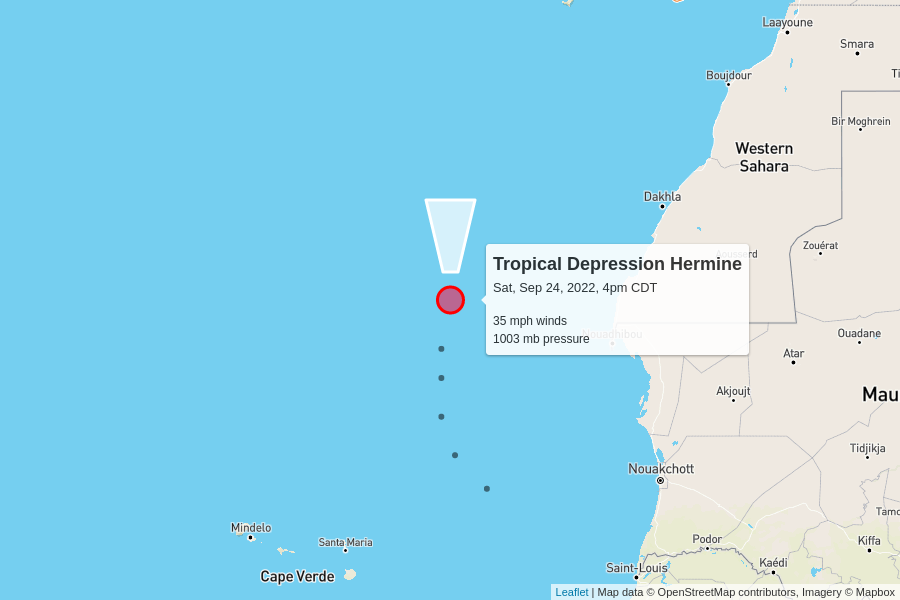
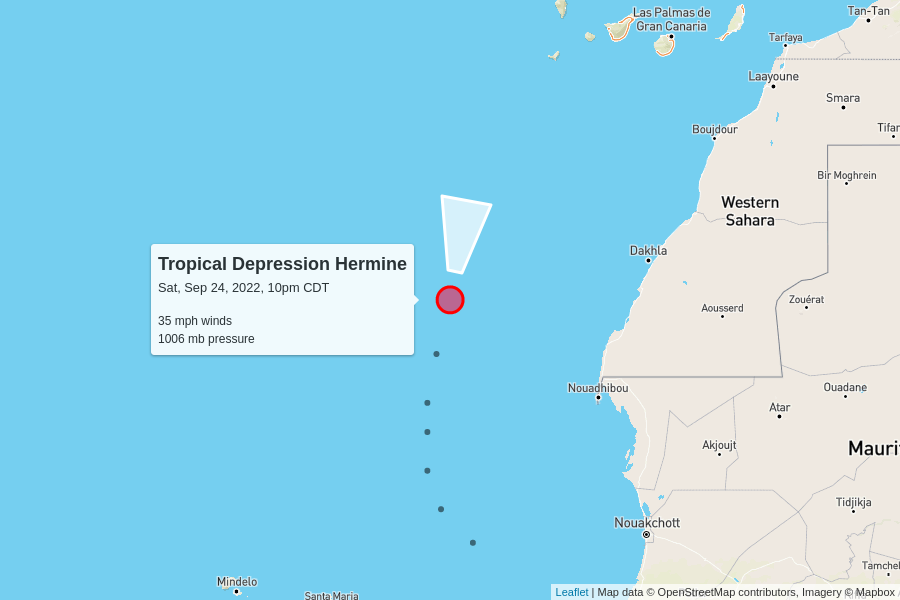
automatic update

diff --git a/docs/index.html b/docs/index.html
@@ -100,7 +100,7 @@
         <td colspan="6" class="storm category-0" >
           <h2>
             Tropical Storm Gaston
-            <p class="updated">last updated <span data-time>2022-09-25T00:00:00.000Z</span></p>
+            <p class="updated">last updated <span data-time>2022-09-25T03:00:00.000Z</span></p>
           </h2>
         </td>
       </tr>
@@ -115,8 +115,8 @@
       </tr>
       <tr>
         <td class="spacer"></td>
-        <td>40 mph</td>
-        <td>1002 mb</td>
+        <td>50 mph</td>
+        <td>997 mb</td>
         <td>
           12 mph to the west
           <br/>
@@ -144,7 +144,7 @@
         <td colspan="6" class="storm category-0" >
           <h2>
             Tropical Storm Ian
-            <p class="updated">last updated <span data-time>2022-09-25T00:00:00.000Z</span></p>
+            <p class="updated">last updated <span data-time>2022-09-25T03:00:00.000Z</span></p>
           </h2>
         </td>
       </tr>
@@ -159,12 +159,12 @@
       </tr>
       <tr>
         <td class="spacer"></td>
-        <td>45 mph</td>
+        <td>50 mph</td>
         <td>1002 mb</td>
         <td>
-          14 mph to the west
+          13 mph to the west
           <br/>
-          <span style="display: inline-block; font-size: 1.5em; transform: rotate(275deg);">↑</span>
+          <span style="display: inline-block; font-size: 1.5em; transform: rotate(280deg);">↑</span>
         </td>
         <td><a href="https://raw.githubusercontent.com/mgwalker/atlantic-hurricanes/main/data/csv/AL092022.csv">AL092022.csv</a></td>
         <td><a href="https://www.nhc.noaa.gov/archive/2022/IAN.shtml?">NHC advisories</a></td>
@@ -174,6 +174,50 @@
         <td colspan="5">
           <figure>
             <img src="AL092022.png">
+            <figcaption>
+              Map data &copy; <a href="https://www.openstreetmap.org/copyright">OpenStreetMap</a> contributors,
+              Imagery &copy; <a href="https://www.mapbox.com/">Mapbox</a> |
+              <a href="https://www.mapbox.com/map-feedback/" target="_blank">Improve this map</a>
+            </figcaption>
+          </figure>
+        </td>
+      </tr>
+      
+
+      <tr>
+        <td colspan="6" class="storm category-0" >
+          <h2>
+            Tropical Depression Hermine
+            <p class="updated">last updated <span data-time>2022-09-25T03:00:00.000Z</span></p>
+          </h2>
+        </td>
+      </tr>
+      
+      <tr>
+        <th class="spacer"></th>
+        <th>wind speed</th>
+        <th>central pressure</th>
+        <th>movement</th>
+        <th>data (CSV)</th>
+        <th>National Hurricane Center</th>
+      </tr>
+      <tr>
+        <td class="spacer"></td>
+        <td>35 mph</td>
+        <td>1006 mb</td>
+        <td>
+          10 mph to the north
+          <br/>
+          <span style="display: inline-block; font-size: 1.5em; transform: rotate(10deg);">↑</span>
+        </td>
+        <td><a href="https://raw.githubusercontent.com/mgwalker/atlantic-hurricanes/main/data/csv/AL102022.csv">AL102022.csv</a></td>
+        <td><a href="https://www.nhc.noaa.gov/archive/2022/HERMINE.shtml?">NHC advisories</a></td>
+      </tr>
+      <tr id="storm_AL102022" >
+        <td class="spacer">
+        <td colspan="5">
+          <figure>
+            <img src="AL102022.png">
             <figcaption>
               Map data &copy; <a href="https://www.openstreetmap.org/copyright">OpenStreetMap</a> contributors,
               Imagery &copy; <a href="https://www.mapbox.com/">Mapbox</a> |
@@ -196,50 +240,6 @@
         <td colspan="5">
           <figure>
             <img src="AL072022.png">
-            <figcaption>
-              Map data &copy; <a href="https://www.openstreetmap.org/copyright">OpenStreetMap</a> contributors,
-              Imagery &copy; <a href="https://www.mapbox.com/">Mapbox</a> |
-              <a href="https://www.mapbox.com/map-feedback/" target="_blank">Improve this map</a>
-            </figcaption>
-          </figure>
-        </td>
-      </tr>
-      
-
-      <tr>
-        <td colspan="6" class="storm category-0" >
-          <h2>
-            Tropical Depression Hermine
-            <p class="updated">last updated <span data-time>2022-09-24T21:00:00.000Z</span></p>
-          </h2>
-        </td>
-      </tr>
-      
-      <tr>
-        <th class="spacer"></th>
-        <th>wind speed</th>
-        <th>central pressure</th>
-        <th>movement</th>
-        <th>data (CSV)</th>
-        <th>National Hurricane Center</th>
-      </tr>
-      <tr>
-        <td class="spacer"></td>
-        <td>35 mph</td>
-        <td>1003 mb</td>
-        <td>
-          10 mph to the north
-          <br/>
-          <span style="display: inline-block; font-size: 1.5em; transform: rotate(360deg);">↑</span>
-        </td>
-        <td><a href="https://raw.githubusercontent.com/mgwalker/atlantic-hurricanes/main/data/csv/AL102022.csv">AL102022.csv</a></td>
-        <td><a href="https://www.nhc.noaa.gov/archive/2022/HERMINE.shtml?">NHC advisories</a></td>
-      </tr>
-      <tr id="storm_AL102022" >
-        <td class="spacer">
-        <td colspan="5">
-          <figure>
-            <img src="AL102022.png">
             <figcaption>
               Map data &copy; <a href="https://www.openstreetmap.org/copyright">OpenStreetMap</a> contributors,
               Imagery &copy; <a href="https://www.mapbox.com/">Mapbox</a> |
